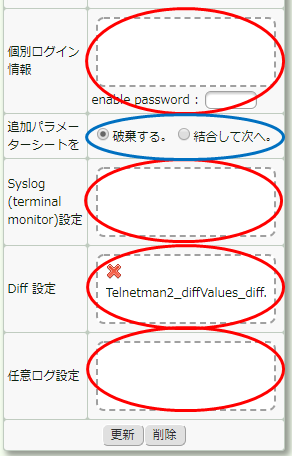
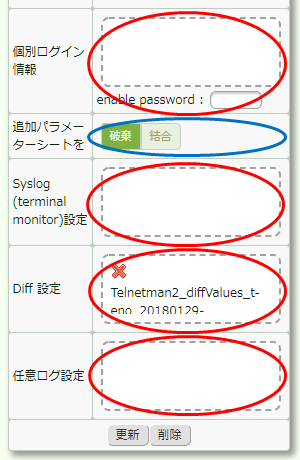
v2.0.1

Changed region(s): [[0.0, 0.0, 1.0, 1.0]]

diff --git a/html/training_05.html b/html/training_05.html
@@ -46,13 +46,13 @@
    <span class='normal_font'>&nbsp;&nbsp;&nbsp;「Telnetman2_flowchart_****.json」</span>
   </p>
   <div class='clear_both'>
-   <p class='float_left'><img src='img/training/training-05-01-03-b.png' width='292' height='456' alt='work の作成'></p>
+   <p class='float_left'><img src='img/training/training-05-01-03-b.png' width='300' height='460' alt='work の作成'></p>
    <p class='float_left'>
     <span class='normal_font'>個別ログイン情報&nbsp;:&nbsp;デフォルトのログイン情報を使わない場合は個別で設定する。</span><br>
     <span class='normal_font'>syslog設定、diff設定、任意ログ設定も必要であればドラッグ&amp;ドロップ。</span><br><br>
     <span class='normal_font'>Telnetman&nbsp;のaction&nbsp;の機能でパラメーターシートを編集できるが、</span><br>
     <span class='normal_font'>この段階ではまだ元のパラメーターシートのファイルに書き込まれていない。</span><br>
-    <span class='normal_font'>編集分を破棄するか、書き込んで次に渡すかどうか選択できる。</span><br><br>
+    <span class='normal_font'>追加、編集分を破棄するか、書き込んで次に渡すかどうか選択できる。</span><br><br>
     <span class='normal_font'>[更新]を押して設定保存。</span><br>
     <span class='normal_font'>このとき配置データも保存される。</span>
    </p>
